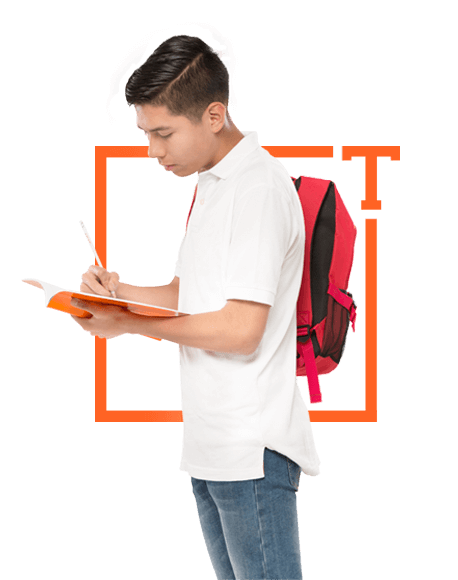
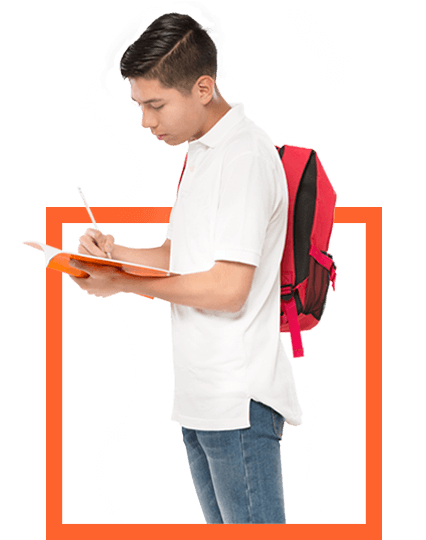
changes

Changed region(s): [[0.061, 0.0, 0.9155, 1.0]]

diff --git a/resources/assets/sass/pages/colegio/_vacations.scss b/resources/assets/sass/pages/colegio/_vacations.scss
@@ -165,8 +165,14 @@
 }
 
 .vacations-venue__image-rigth{
+  display: flex;
+  justify-content: center;
+  align-items: flex-end;
+
   img{
-    vertical-align: bottom;
+        position: relative;
+        height: fit-content;
+        bottom: 0;
   }
 }
 

diff --git a/resources/views/colegio/partials/vacations/venues/comas.blade.php b/resources/views/colegio/partials/vacations/venues/comas.blade.php
@@ -4,15 +4,27 @@
       <li>
           <a href="#" class="js-tabs__title">
             <div>
-              <svg class="vacations-svg" version="1.1" class="vacations-svg" xmlns="http://www.w3.org/2000/svg" xmlns:xlink="http://www.w3.org/1999/xlink" x="0px" y="0px" viewBox="0 0 38 38" xml:space="preserve">
-                <path  d="M19.4,8.9c0,0-0.1,0-0.1,0c0,0-0.1,0-0.1,0l-8.7,5.6c-0.1,0-0.1,0.1-0.1,0.2l0,9.3c0,0.1,0,0.2,0.1,0.2
-                  l8.7,5.4c0.1,0,0.2,0,0.2,0l8.7-5.4c0.1,0,0.1-0.1,0.1-0.2l0-9.3c0-0.1,0-0.2-0.1-0.2L19.4,8.9z M19.2,9.6L23,12l-3.7,2.4L15.5,12
-                  L19.2,9.6z M14.6,26.1l-3.7-2.3v-4l3.7,2.2V26.1z M14.6,21.4l-3.7-2.3v-4l3.7,2.4V21.4z M11.3,14.6l3.6-2.3l3.6,2.3l-3.6,2.3
-                  L11.3,14.6z M18.9,15.1v4l-3.7,2.3v-3.9L18.9,15.1z M18.9,28.7l-0.4-0.3l-3.3-2v-4l0,0v0l0.2,0.1l2.7,1.7l0,0l0.8,0.5l0,0.2V28.7z
-                   M19.2,24.3l-3.7-2.3l3.7-2.3l3.7,2.3L19.2,24.3z M23.2,26.5l-3.7,2.3v-3.9l0.8-0.5l0,0l0.2-0.1l2.7-1.7V26.5z M23.2,21.4l-3.7-2.3
-                  v-4l3.7,2.4V21.4z M20,14.6l3.6-2.3l3.6,2.3l-3.6,2.3L20,14.6z M27.6,23.8l-3.7,2.3v-3.9l3.7-2.3V23.8z M27.6,19.1l-3.7,2.3v-3.9
-                  l3.7-2.4V19.1z"/>
+              <svg class="vacations-svg" version="1.1" id="Capa_1" xmlns="http://www.w3.org/2000/svg" xmlns:xlink="http://www.w3.org/1999/xlink" x="0px" y="0px"
+              	 viewBox="0 0 800 800" enable-background="new 0 0 800 800" xml:space="preserve">
+              <g>
+              	<g>
+              		<path fill="#51555A" d="M638.7,162c-33.5-33.5-88.1-33.5-121.6,0L172.7,506.4c-0.2,0.2-0.3,0.4-0.4,0.6c-0.1,0.2-0.4,0.5-0.5,0.7
+              			c-0.5,0.8-0.9,1.5-1.2,2.3c-0.1,0.3-0.2,0.5-0.3,0.7c0,0.1-0.1,0.2-0.1,0.3l-33.8,141.8c-0.1,0.7-0.2,1.3-0.2,1.9
+              			c0,0.1,0,0.3,0,0.3c0,1.1,0.2,2.2,0.6,3.2c0.1,0.2,0.2,0.5,0.3,0.7c0.5,1,1.1,2,1.9,2.8c0.9,0.9,1.9,1.6,3.1,2.1
+              			c1.2,0.4,2.4,0.7,3.6,0.7c0.7,0,1.5,0,2.2-0.2l141.8-33.7c0.3-0.1,0.5-0.2,0.8-0.3c0.3-0.1,0.6-0.2,0.9-0.4
+              			c0.7-0.3,1.3-0.7,1.9-1.2c0.2-0.1,0.5-0.3,0.7-0.5c0.1-0.1,0.2-0.1,0.2-0.2l344.5-344.4C672.3,250,672.3,195.5,638.7,162
+              			L638.7,162z M625.2,175.5c23.7,23.8,25.8,61.1,6.2,87.3l-93.5-93.5C564.2,149.7,601.4,151.7,625.2,175.5L625.2,175.5z
+              			 M577.9,317.3l-94.6-94.6l13.5-13.5l94.6,94.6L577.9,317.3z M183.5,617.2c-3.7-3.7-9.8-3.7-13.5,0l-7.2,7.2L187.2,522l42.3-4.7
+              			l-5.4,48.9c0,0.3,0.1,0.7,0.1,1.1c0,0.4-0.1,0.7-0.1,1c0,0.3,0.2,0.6,0.2,0.9c0.1,0.6,0.2,1.1,0.5,1.6c0.2,0.6,0.5,1.2,0.9,1.7
+              			c0.3,0.5,0.6,0.8,0.9,1.2c0.4,0.5,1,0.9,1.5,1.3c0.4,0.3,0.8,0.6,1.3,0.8c0.6,0.3,1.3,0.5,1.9,0.6c0.4,0.1,0.7,0.3,1,0.3
+              			c0.4,0.1,0.7,0.1,1.1,0.1h0c0.3,0,0.7,0,1-0.1l48.9-5.4l-4.7,42.2L176.3,638l7.3-7.3C187.2,627,187.2,620.9,183.5,617.2
+              			L183.5,617.2z M303.4,564.9l213.8-213.7c3.7-3.7,3.7-9.8,0-13.5c-3.7-3.7-9.8-3.7-13.5,0L289.9,551.3l-45.6,5.1l5.1-45.6
+              			l213.8-213.7c3.7-3.7,3.7-9.7,0-13.5c-3.7-3.7-9.7-3.7-13.5,0L235.9,497.3l-30.4,3.4l264.5-264.4l94.5,94.5L300,595.3L303.4,564.9
+              			z M605,290.3l-94.6-94.6l13.5-13.5l94.6,94.6L605,290.3z M605,290.3"/>
+              	</g>
+              </g>
               </svg>
+
             </div>
             <div><span class="vacations-svg__title">Primaria</span></div>
           </a>
@@ -36,6 +48,8 @@
       <li>
             <a href="#" class="js-tabs__title">
               <div>
+
+
                 <svg version="1.1" class="vacations-svg" xmlns="http://www.w3.org/2000/svg" xmlns:xlink="http://www.w3.org/1999/xlink" x="0px" y="0px"
                 	 viewBox="0 0 38 38" enable-background="new 0 0 38 38" xml:space="preserve">
                   <g>
@@ -53,6 +67,7 @@
                   		c0.1,0.2,0.5,0.3,0.7,0.2c3.6-2.3,5.7-6.2,5.7-10.4C31.4,12.2,25.8,6.6,19,6.6L19,6.6z M19,6.6"/>
                   </g>
                 </svg>
+
 
               </div>
               <div><span class="vacations-svg__title">Ciclo Especial</span></div>
@@ -179,7 +194,7 @@
           </ul>
         </div>
         <div class="col-sm-6 xs-hide vacations-venue__image-rigth">
-          <img src="{{asset('static/images/colegio/vacations/secundaria.png')}}" alt="">
+          <img src="{{asset('static/images/colegio/vacations/primaria.png')}}" alt="">
         </div>
       </div>
     </div>
@@ -263,7 +278,7 @@
           </ul>
         </div>
         <div class="col-sm-6 xs-hide vacations-venue__image-rigth">
-          <img src="{{asset('static/images/colegio/vacations/secundaria.png')}}" alt="">
+          <img src="{{asset('static/images/colegio/vacations/ciclo-especial.png')}}" alt="">
         </div>
       </div>
     </div>
@@ -320,7 +335,7 @@
           </ul>
         </div>
         <div class="col-sm-6 xs-hide vacations-venue__image-rigth">
-          <img src="{{asset('static/images/colegio/vacations/secundaria.png')}}" alt="">
+          <img src="{{asset('static/images/colegio/vacations/cursos-adicionales.png')}}" alt="">
         </div>
       </div>
     </div>
@@ -352,7 +367,7 @@
           </ul>
         </div>
         <div class="col-sm-6 xs-hide vacations-venue__image-rigth">
-          <img src="{{asset('static/images/colegio/vacations/secundaria.png')}}" alt="">
+          <img src="{{asset('static/images/colegio/vacations/ingles-intensivo.png')}}" alt="">
         </div>
       </div>
     </div>

diff --git a/resources/views/colegio/partials/vacations/selects.blade.php b/resources/views/colegio/partials/vacations/selects.blade.php
@@ -5,18 +5,22 @@
       <option data-placeholder="true"></option>
       <option value="/colegio/sede/callao/vacaciones-utiles">Callao</option>
       <option value="/colegio/sede/comas/vacaciones-utiles">Comas</option>
+<!--
       <option value="/colegio/sede/chorrillos/vacaciones-utiles">Chorrillos</option>
       <option value="/colegio/sede/jesus-maria-salaverry/vacaciones-utiles">Jesús María (Salaverry)</option>
       <option value="/colegio/sede/los-olivos/vacaciones-utiles">Los Olivos</option>
       <option value="/colegio/sede/pro/vacaciones-utiles">Pro</option>
       <option value="/colegio/sede/santa-beatriz-roma/vacaciones-utiles">Santa Beatriz (Roma)</option>
+-->
     </select>
   </div>
   <div class="col-xs-12 col-sm-6 vacations__select-item">
     <select id="slimselect_provincia" class="select-vacations">
       <option data-placeholder="true"></option>
+<!--
       <option value="/colegio/sede/chanchamayo/vacaciones-utiles">Chanchamayo</option>
       <option value="/colegio/sede/huancayo/vacaciones-utiles">Huancayo</option>
+-->
     </select>
   </div>
 </div>

diff --git a/resources/views/colegio/layouts/parts/header.blade.php b/resources/views/colegio/layouts/parts/header.blade.php
@@ -155,7 +155,7 @@
                 </li>
 
                 <li class=""><a href="/colegio/blog" class="{{ (Request::is('colegio/blog*')?'nav-item-active':'') }}">Blog</a></li>
-                <li><a href="/colegio/vacaciones-utiles" class="{{ (Request::is('*vacaciones-utiles*')?'nav-item-active':'') }} ">Vacaciones Útiles 2019</a></li>
+                <li><a href="/colegio/propuesta-educativa" class="{{ (Request::is('colegio/propuesta-educativa')?'nav-item-active':'') }} ">Propuesta educativa</a></li>
                 <li class=""><a href="/colegio/contacto" class="{{ (Request::is('colegio/contacto')?'nav-item-active nav-item-noclick':'') }}">Contáctanos</a></li>
               </ul>
             </nav>

diff --git a/resources/views/colegio/index.blade.php b/resources/views/colegio/index.blade.php
@@ -56,14 +56,14 @@
         <div
         class="banner__image"
 
-        data-image-md="http://www.trilce.edu.pe/tt_nina.png"
+        data-image-md="/storage/static/images/banner/ogro/banner_8_nov_matricula-500x500.png"
         data-position-md="80% bottom"
         data-size-md="contain"
 
-        data-image-xs="http://www.trilce.edu.pe/tt_nina.png"
+        data-image-xs="/storage/static/images/banner/ogro/banner_8_nov_matricula-250x250.png"
         data-position-xs="bottom right"
         data-size-xs="58vw"
-
+  
         style="
         background-repeat: no-repeat;
         z-index: 11;

diff --git a/resources/views/colegio/partials/card_bottom.blade.php b/resources/views/colegio/partials/card_bottom.blade.php
@@ -2,10 +2,10 @@
   <div class="container-fluid">
     <div class="row">
       <div class="col-xs-12 col-sm-6 col-md-3">
-        <a href="/colegio/propuesta-educativa">
-          <i class="fa fa-graduation-cap"></i>
-          <h3>Propuesta educativa</h3>
-          <p>Conoce más sobre nosotros</p>
+        <a href="/colegio/vacaciones-utiles">
+          <i class="fa fa-sun-o"></i>
+          <h3>Vacaciones Útiles 2019</h3>
+          <p>Estudia y diviértete este verano</p>
         </a>
       </div>
         <div class="col-xs-12 col-sm-6 col-md-3">

diff --git a/resources/views/colegio/educational_proposal.blade.php b/resources/views/colegio/educational_proposal.blade.php
@@ -20,7 +20,7 @@
 
   <div class="header-double-image">
     <div class="row col-xs-12 header-double-image-desk">
-      <img src="{{ url('/static/images/colegio/pages-banners/banner-prop-educativa.jpg') }}" alt="">
+      <img src="{{ url('/static/images/colegio/pages-banners/banner-propuesta-educativa.png') }}" alt="">
     </div>
     <div class="header-double-image-mobile">
       <img src="{{ url('/static/images/colegio/pages-banners/banner-propuesta-educativa-movil.png') }}" alt="">
